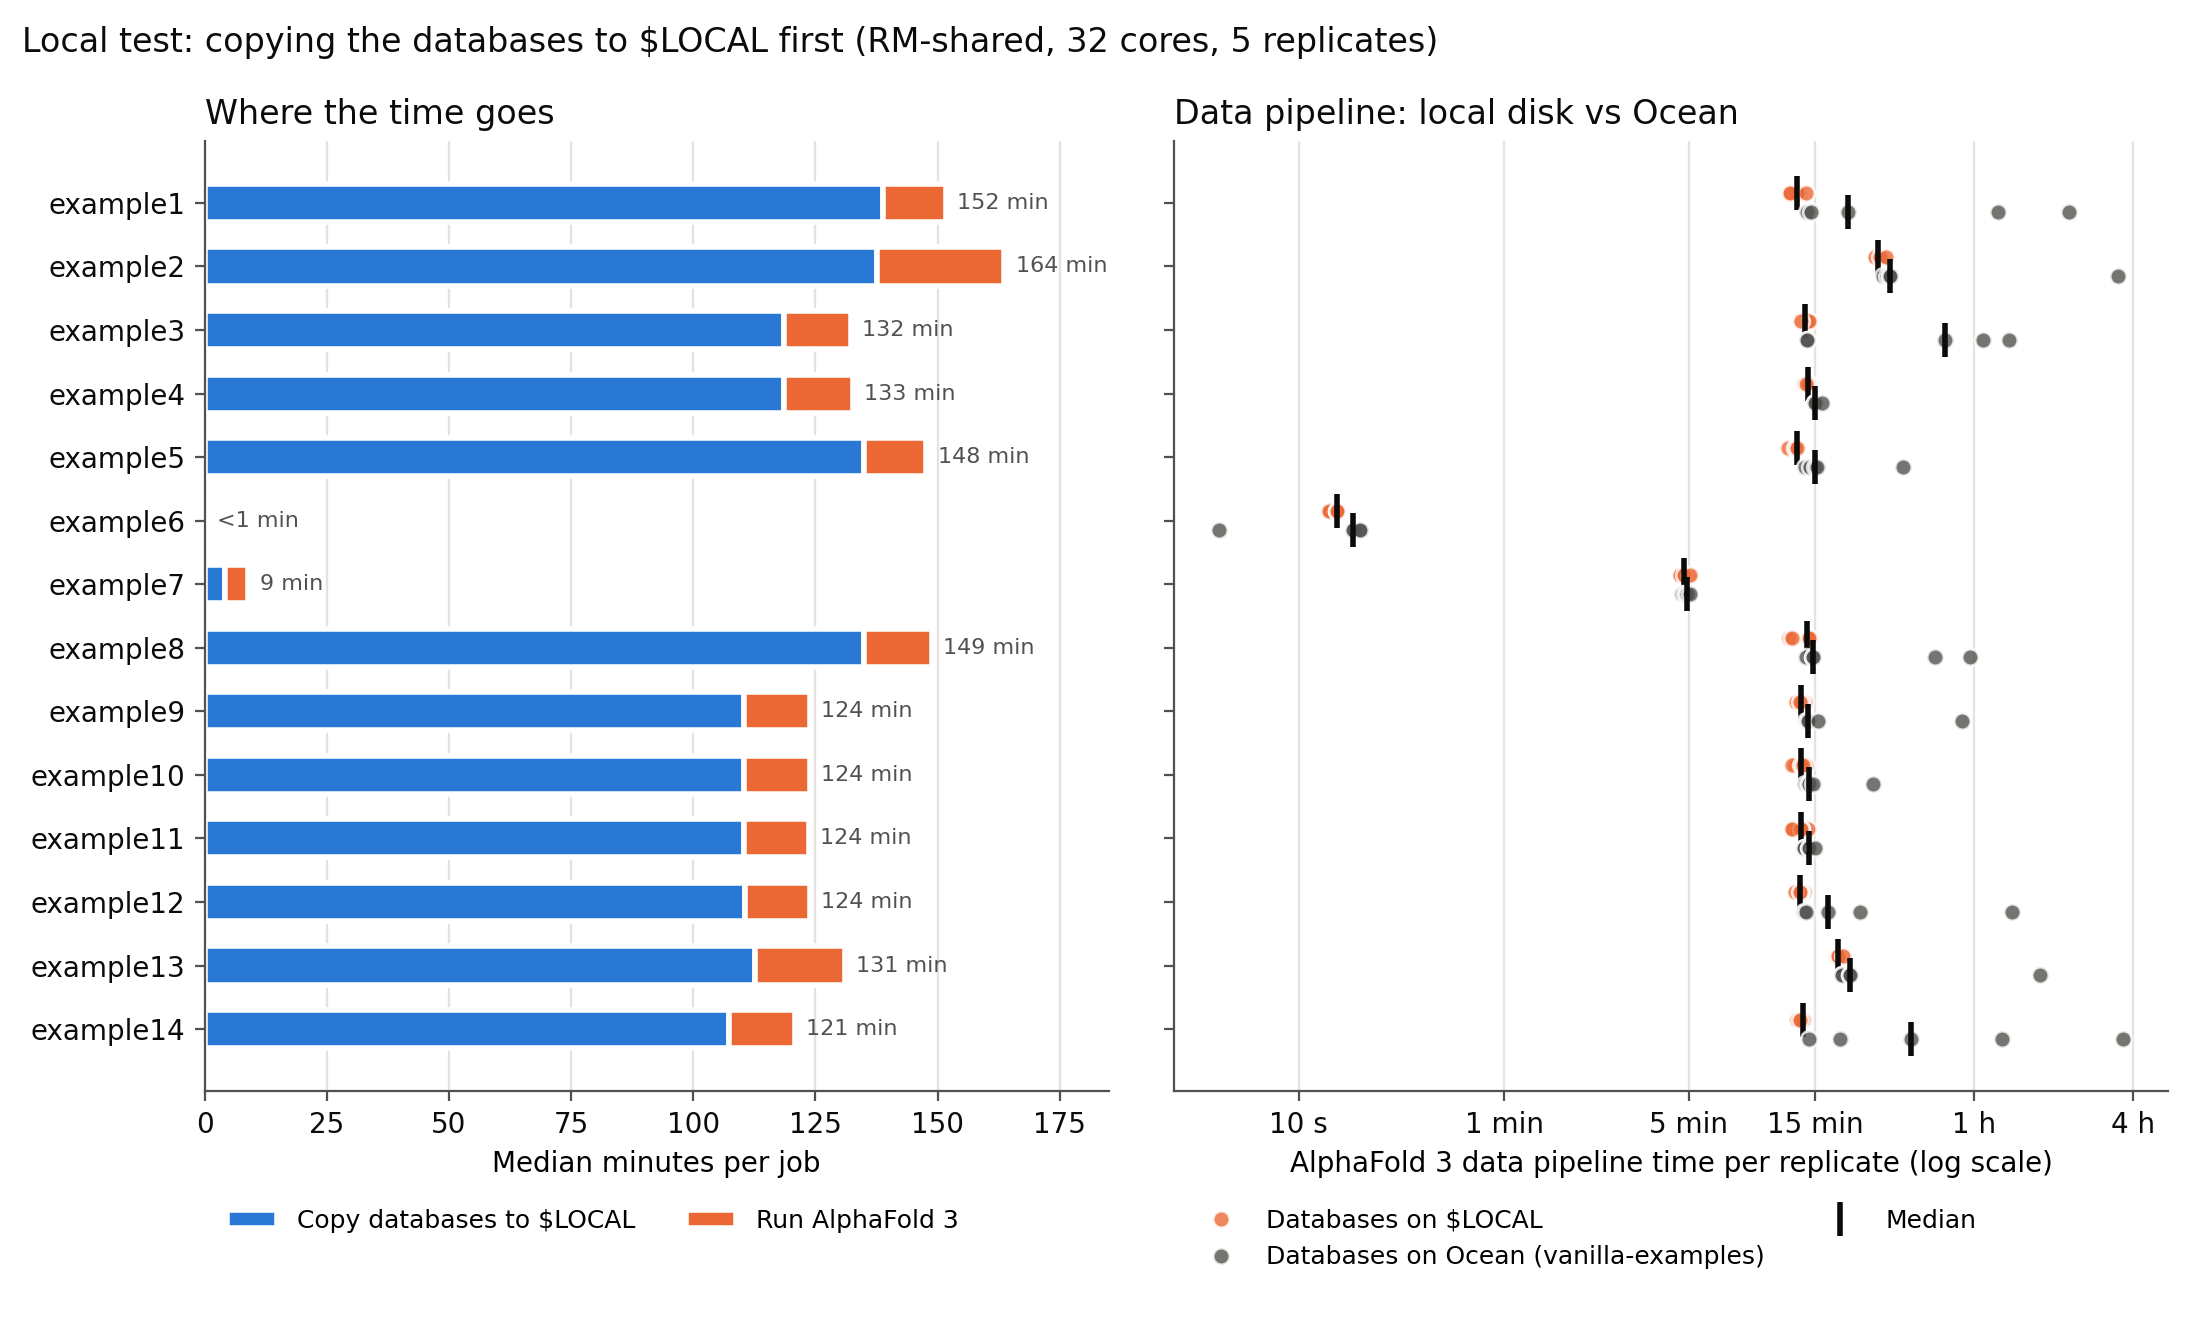
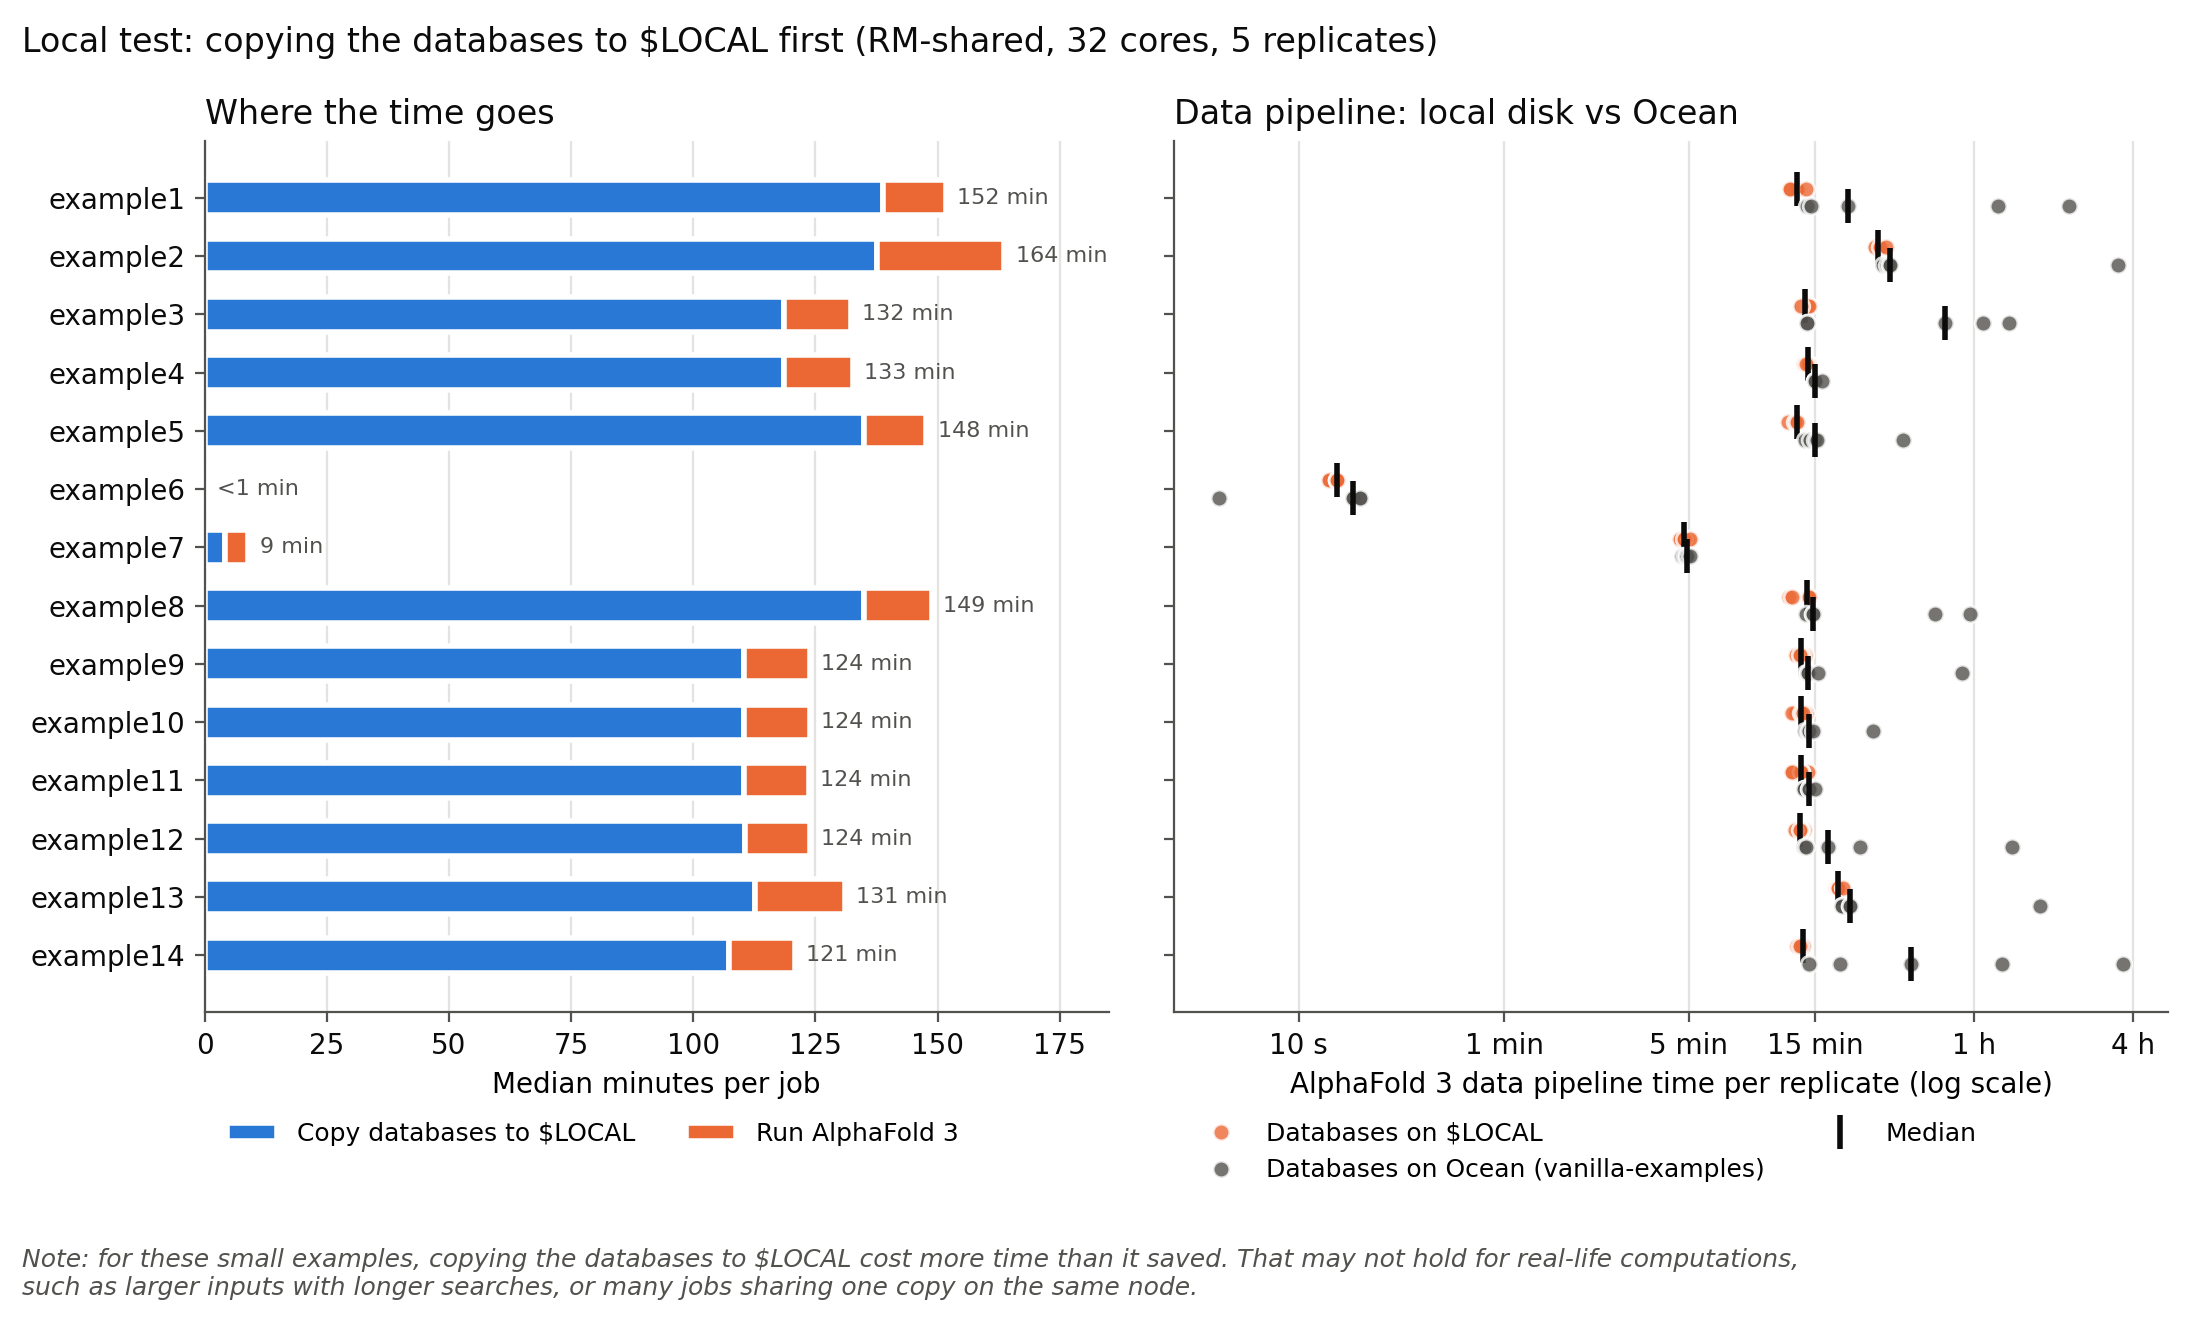
local-test: note on the local vs Ocean plot that copying may pay off for real workloads

diff --git a/local-test/plot_results.py b/local-test/plot_results.py
@@ -161,7 +161,13 @@ def plot(local, ocean):
     fig.suptitle("Local test: copying the databases to $LOCAL first "
                  "(RM-shared, 32 cores, 5 replicates)",
                  x=0.01, ha="left", color=INK, fontsize=12)
-    fig.tight_layout()
+    fig.tight_layout(rect=(0, 0.06, 1, 1))
+    fig.text(0.01, 0.015,
+             "Note: for these small examples, copying the databases to $LOCAL "
+             "cost more time than it saved. That may not hold for real-life "
+             "computations,\nsuch as larger inputs with longer searches, or "
+             "many jobs sharing one copy on the same node.",
+             ha="left", va="bottom", fontsize=9, color=MUTED, style="italic")
     fig.savefig(OUT / "local_vs_ocean.png", dpi=200)
     plt.close(fig)
 
